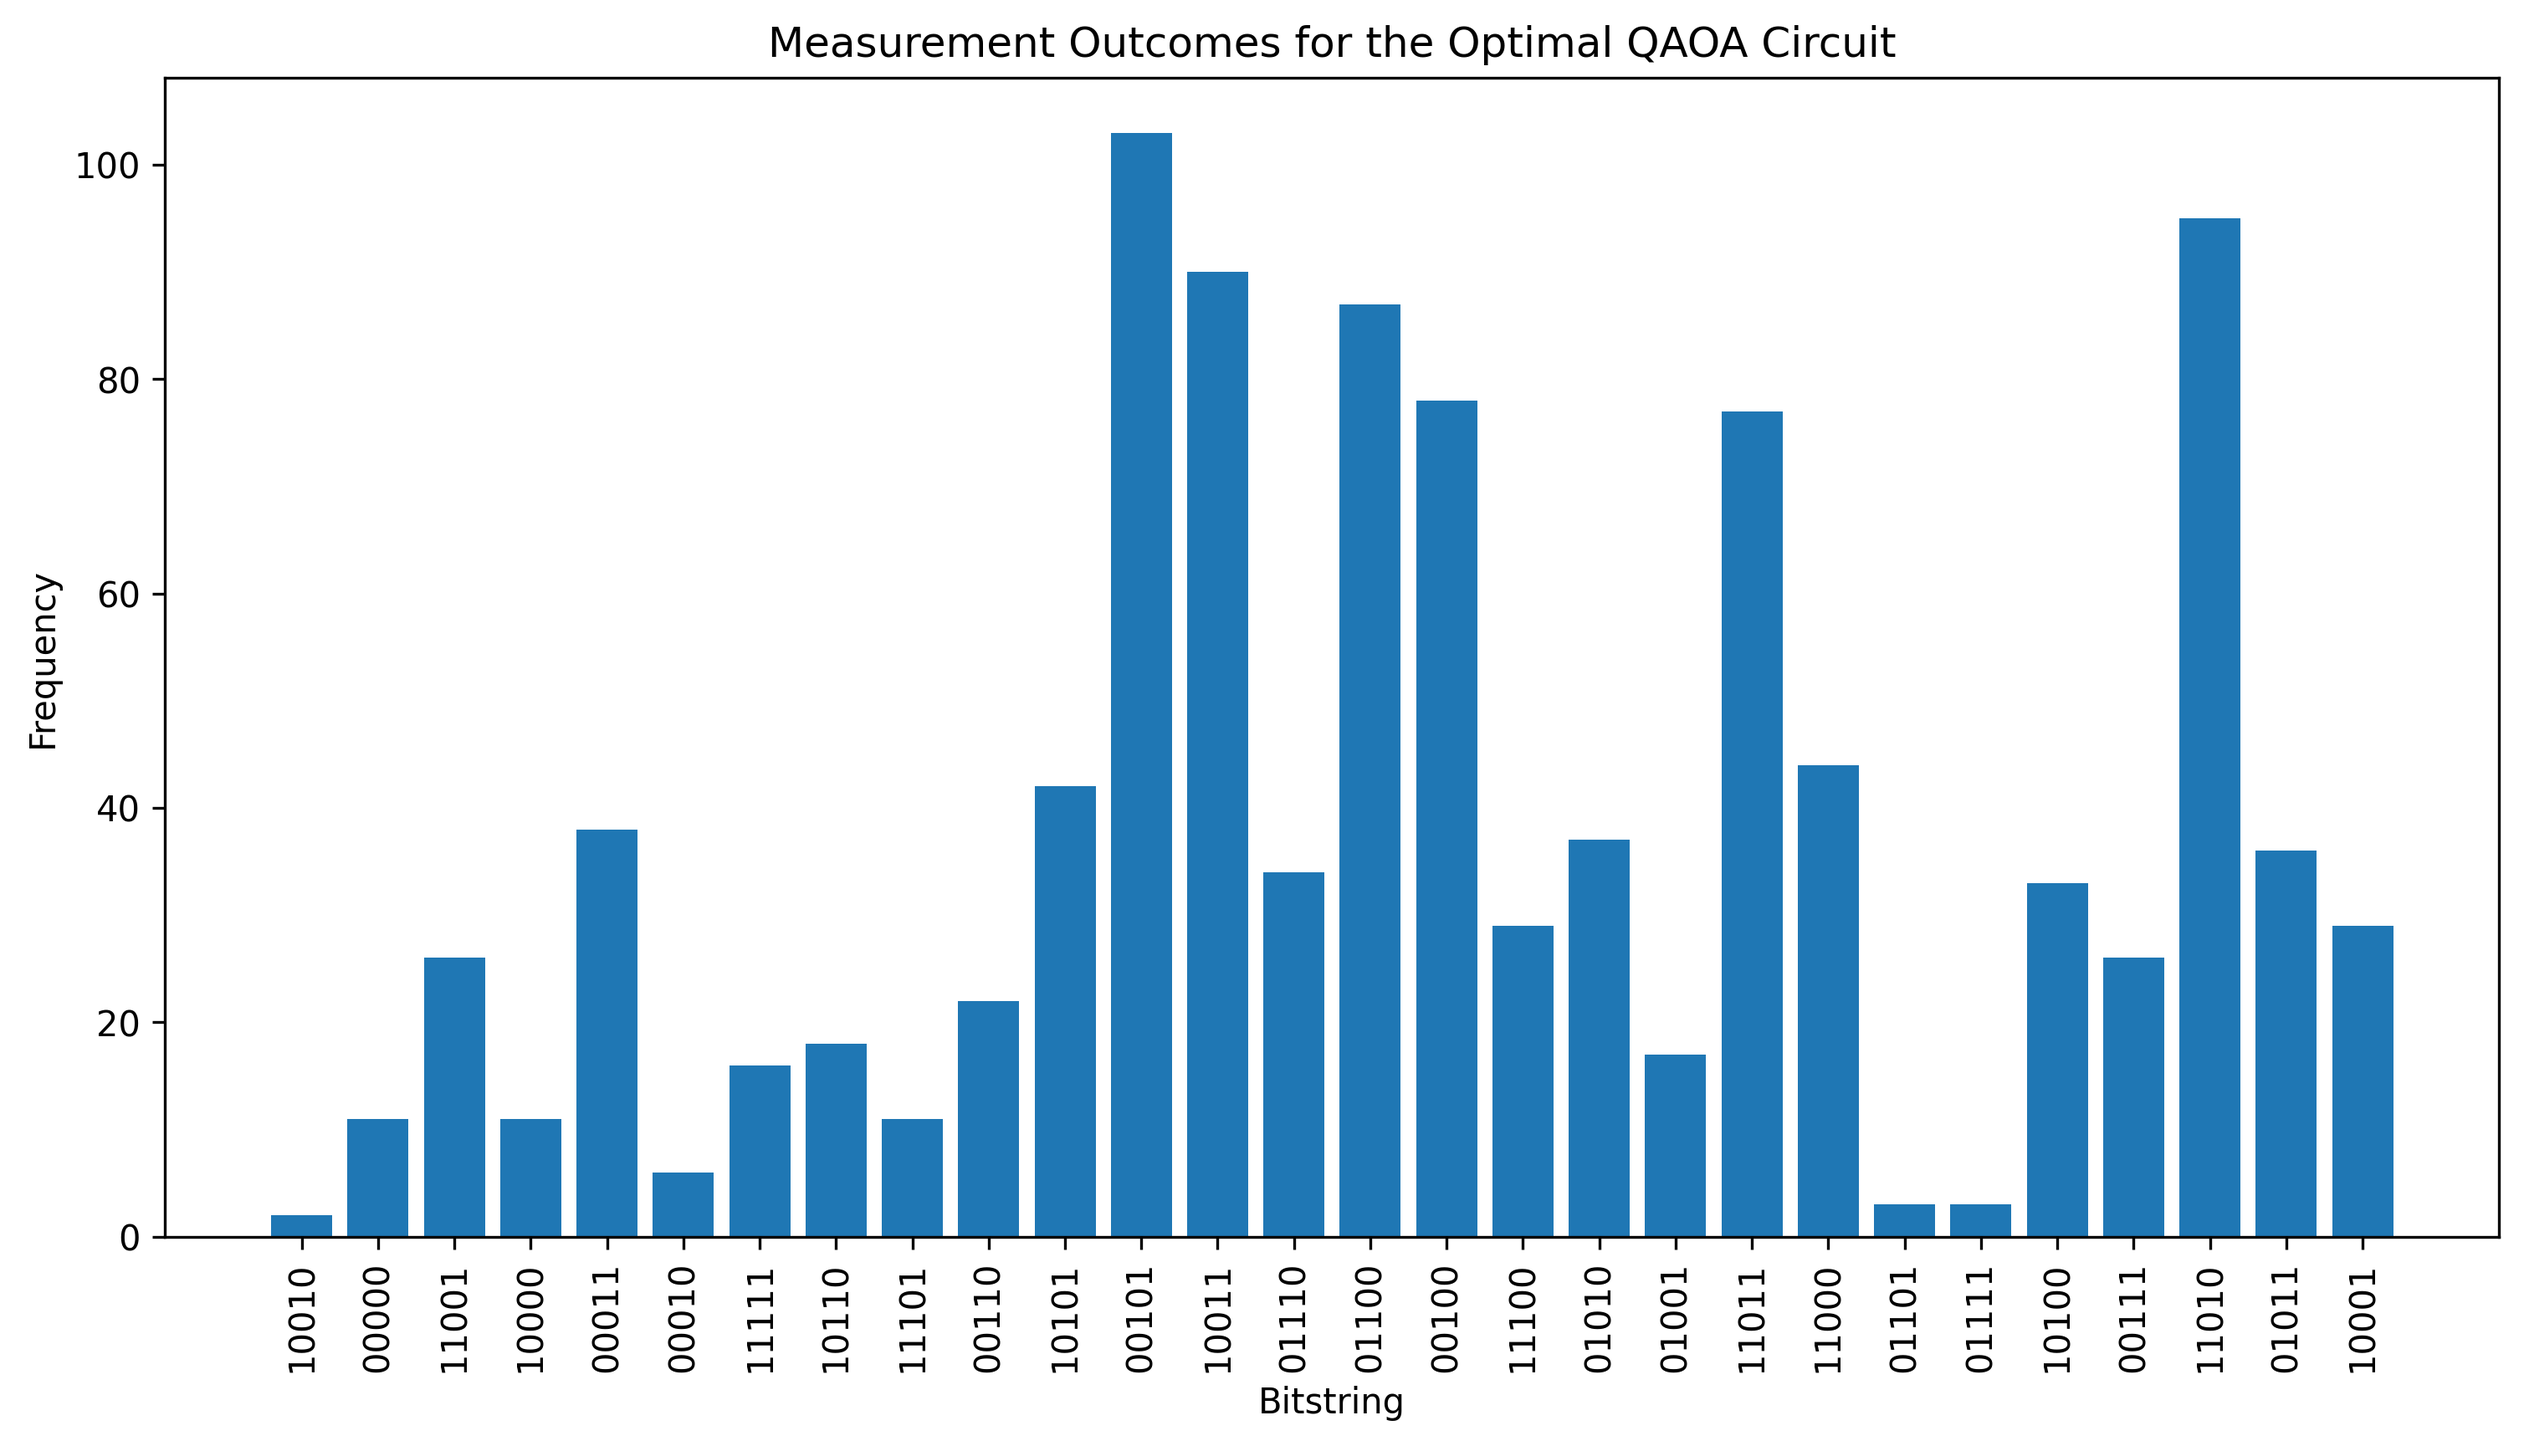
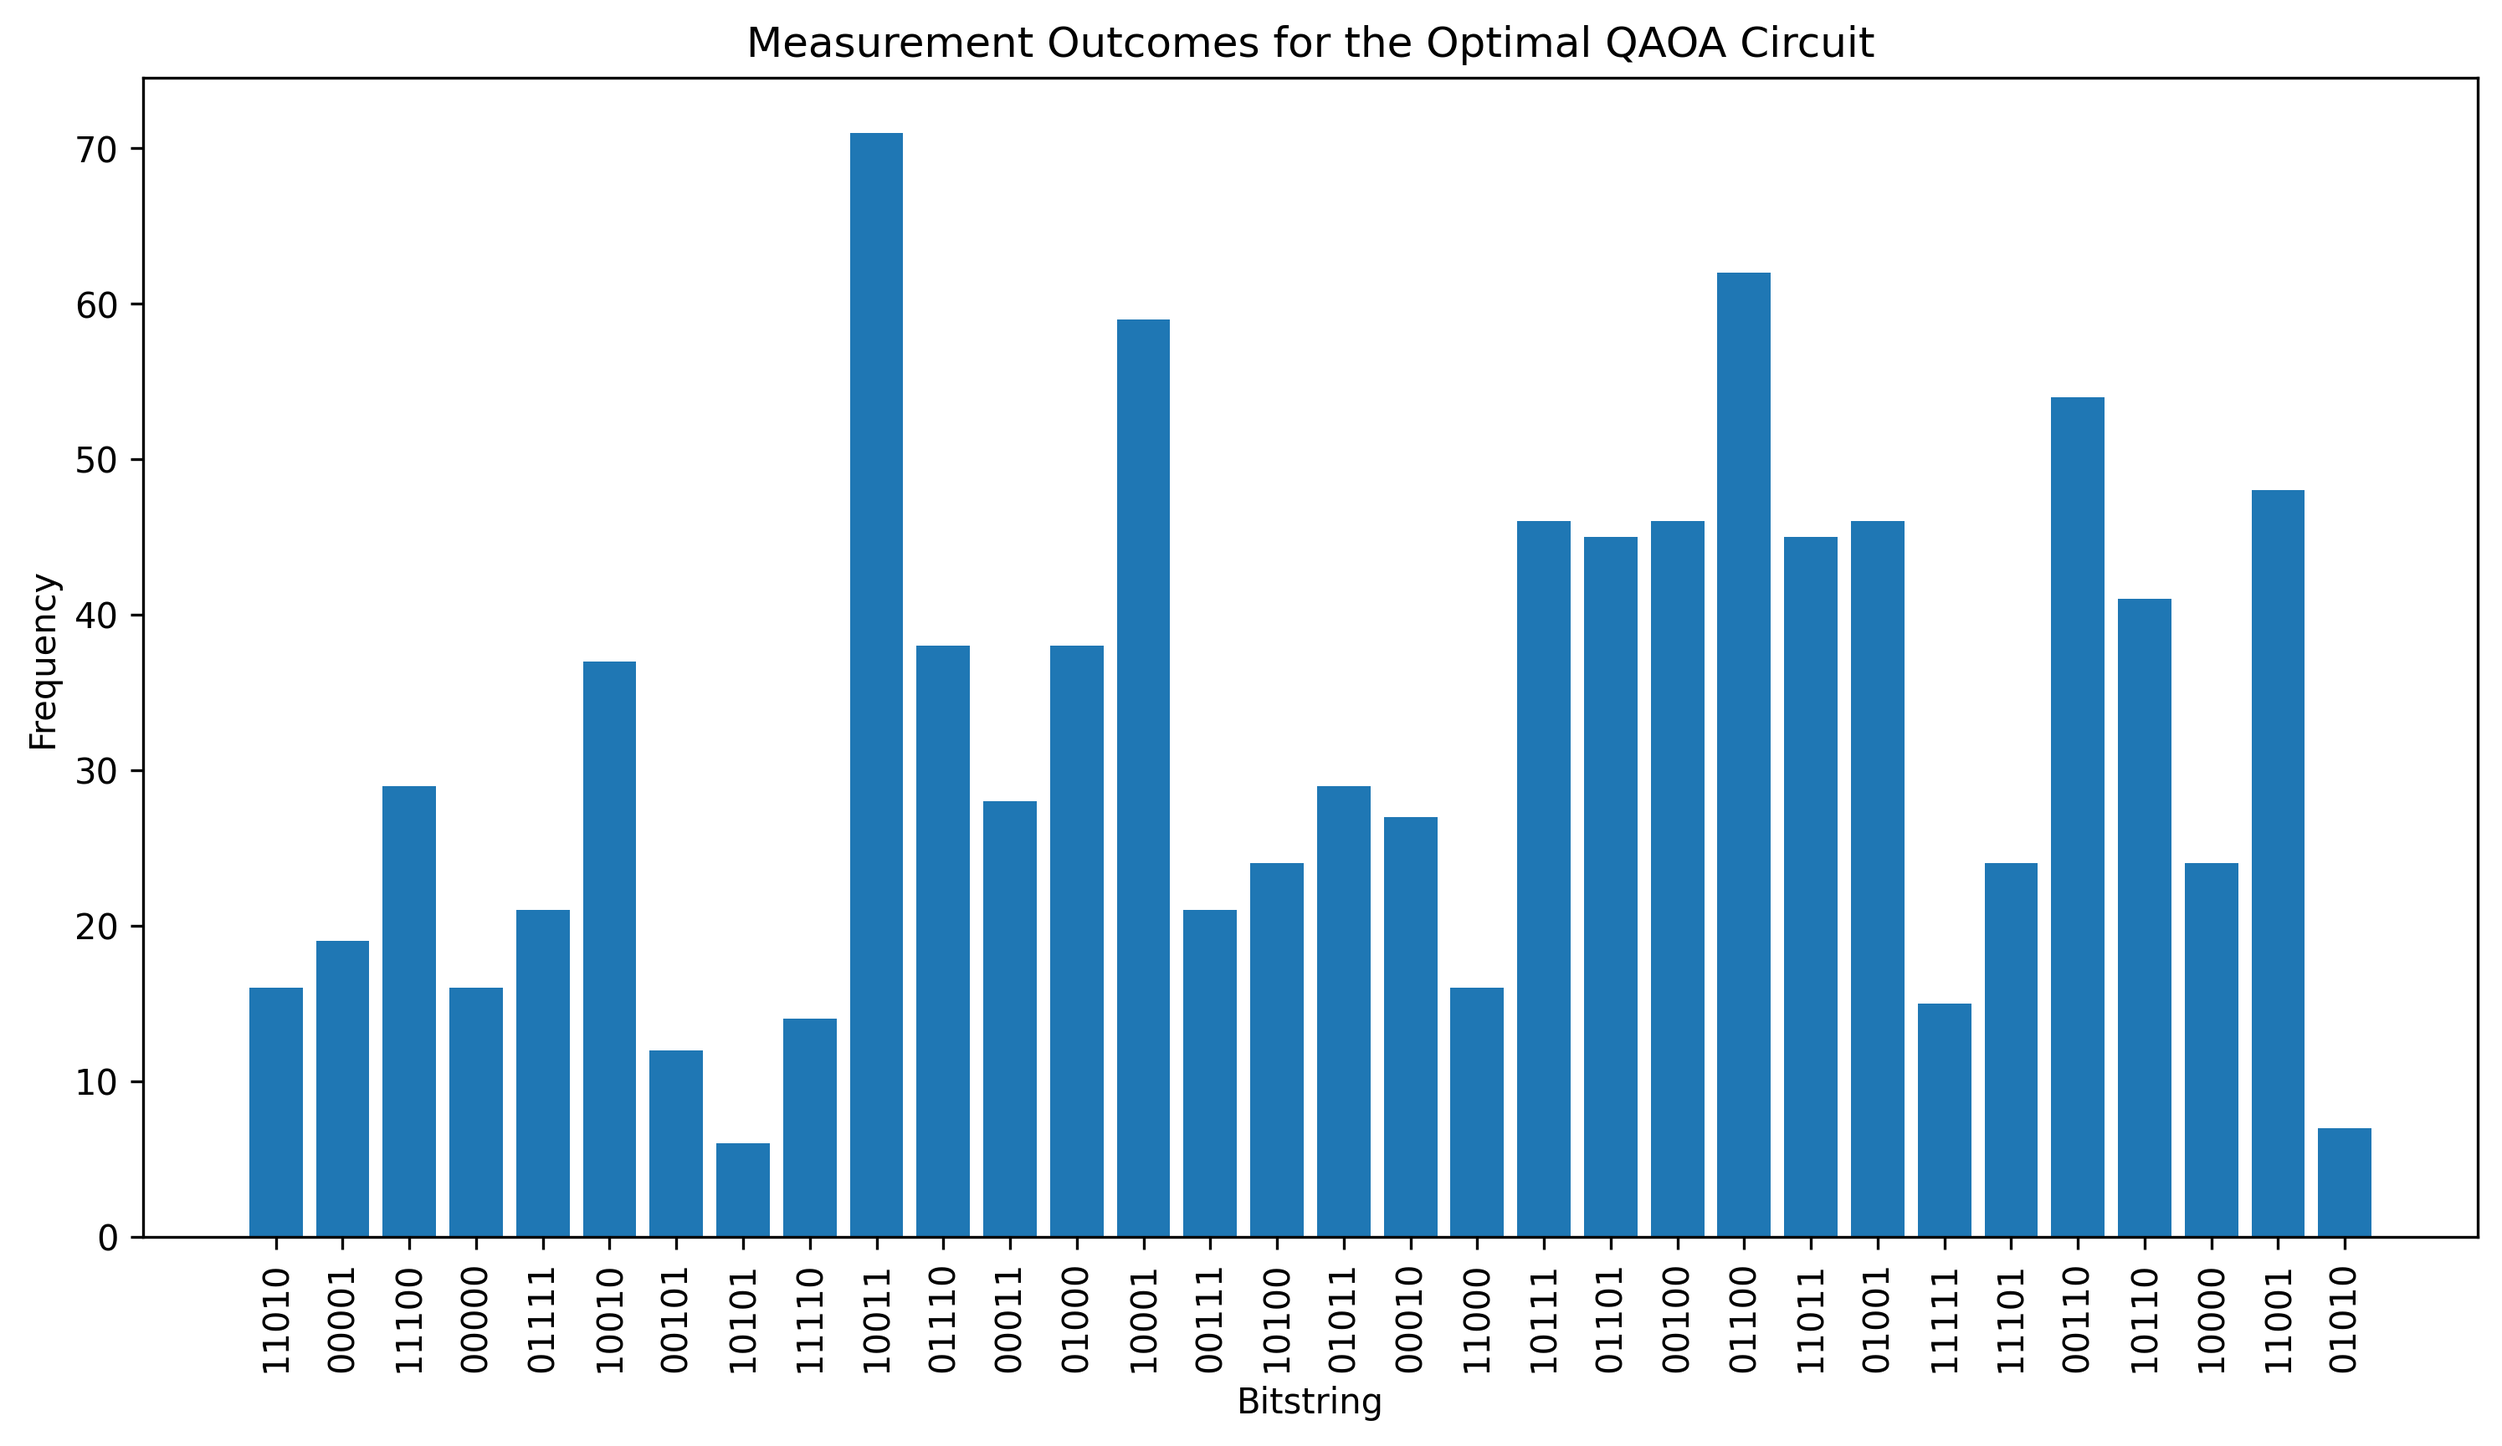
update noise model

diff --git a/src/energy_histogram.py b/src/energy_histogram.py
@@ -1,0 +1,52 @@
+import os
+
+import matplotlib.pyplot as plt
+import numpy as np
+from qiskit_aer import AerSimulator
+
+from src.qaoa_circuit import qaoa_circuit
+
+
+def calculate_cut_value(bitstring, adj_matrix):
+    """Calculate the Max-Cut value for a given bitstring."""
+    cut_value = 0
+    for i in range(len(adj_matrix)):
+        for j in range(i + 1, len(adj_matrix)):
+            if adj_matrix[i][j] == 1 and bitstring[i] != bitstring[j]:
+                cut_value -= 1
+    return cut_value
+
+
+def generate_energy_histogram(optimal_beta, optimal_gamma, n_qubits, cost_hamiltonian, adj_matrix):
+    simulator = AerSimulator()
+    optimal_circuit = qaoa_circuit(optimal_beta, optimal_gamma, n_qubits, cost_hamiltonian)
+    optimal_circuit.measure_all()
+    result = simulator.run(optimal_circuit, shots=1024).result()
+    counts = result.get_counts()
+    qaoa_energies = []
+    for bitstring, freq in counts.items():
+        energy = calculate_cut_value(bitstring, adj_matrix)
+        qaoa_energies.extend([energy] * freq)
+
+    """ generate random sample ( -1,1 for each spin ) """
+    num_random_samples = 1024
+    random_energies = []
+    for _ in range(num_random_samples):
+        random_bitstring = np.random.choice([0, 1], size=n_qubits)
+        random_energies.append(calculate_cut_value(random_bitstring, adj_matrix))
+
+    plt.figure(figsize=(12, 6))
+    plt.hist(qaoa_energies, bins=20, alpha=0.7, label="QAOA Optimal Parameters", edgecolor='k', color='blue')
+    plt.hist(random_energies, bins=20, alpha=0.7, label="Random Sampling", edgecolor='k', color='red')
+
+    plt.xlabel("Energy (Cut Value)")
+    plt.ylabel("Frequency")
+    plt.title("Comparison of Energy Distribution: QAOA vs. Random Sampling")
+    plt.legend()
+    plt.grid(True)
+    folder = "output/graph"
+    filename = "energy_histogram.png"
+    os.makedirs(folder, exist_ok=True)
+    filepath = os.path.join(folder, filename)
+    plt.savefig(filepath, dpi=300, bbox_inches='tight')
+    plt.close()

diff --git a/src/main.py b/src/main.py
@@ -2,6 +2,7 @@ import numpy as np
 
 from src.calculate_best_cut import calculate_best_cut
 from src.cost_hamiltonian import create_cost_hamiltonian
+from src.energy_histogram import generate_energy_histogram
 from src.estimator_run import estimator_run
 from src.generate_chart import generate_heatmap
 from src.sampler_run import sampler_run
@@ -31,8 +32,9 @@ gamma_values = np.linspace(0, np.pi, 8)
 cost_hamiltonian = create_cost_hamiltonian(adj_matrix)
 
 ''"run by sampler'"
-#expectation_values = sampler_run(beta_values, gamma_values , n_qubits, cost_hamiltonian, adj_matrix)
+expectation_values = sampler_run(beta_values, gamma_values , n_qubits, cost_hamiltonian, adj_matrix)
 ''"run by estimator'"
-expectation_values = estimator_run(beta_values, gamma_values , n_qubits, cost_hamiltonian)
+#expectation_values = estimator_run(beta_values, gamma_values , n_qubits, cost_hamiltonian)
 generate_heatmap(expectation_values)
-calculate_best_cut(expectation_values, beta_values, gamma_values, cost_hamiltonian, adj_matrix)
+optimal_beta, optimal_gamma = calculate_best_cut(expectation_values, beta_values, gamma_values, cost_hamiltonian, adj_matrix)
+generate_energy_histogram(optimal_beta, optimal_gamma, n_qubits, cost_hamiltonian, adj_matrix)

diff --git a/src/sampler_run.py b/src/sampler_run.py
@@ -2,7 +2,7 @@ from qiskit_aer import AerSimulator
 from src.qaoa_circuit import qaoa_circuit
 from qiskit_ibm_runtime import SamplerV2 as Sampler
 import numpy as np
-
+from qiskit_aer.noise import NoiseModel, depolarizing_error
 def calculate_state_cost(bitstring, adj_matrix):
     """Calculate the cost for a specific bitstring state."""
     n = len(adj_matrix)
@@ -30,7 +30,14 @@ def calculate_expectation_value(counts, adj_matrix):
     return total_cost / total_shots
 
 def sampler_run(beta_values, gamma_values , n_qubits, cost_hamiltonian, adj_matrix):
-    simulator = AerSimulator()
+    noise_model = NoiseModel()
+
+    single_qubit_error = depolarizing_error(0.8, 1)
+    two_qubit_error = depolarizing_error(0.8, 2)
+
+    noise_model.add_all_qubit_quantum_error(single_qubit_error, ["h", "rx", "rz"])
+    noise_model.add_all_qubit_quantum_error(two_qubit_error, ["cx", "rzz"])
+    simulator = AerSimulator(noise_model=noise_model)
     sampler = Sampler(mode=simulator)
     expectation_values = np.zeros((len(beta_values), len(gamma_values)))
     for i, beta in enumerate(beta_values):

diff --git a/src/calculate_best_cut.py b/src/calculate_best_cut.py
@@ -38,10 +38,6 @@ def calculate_best_cut(expectation_values, beta_values, gamma_values, cost_hamil
         f.write(f"Best cut value: {best_cut_value}\n")
         total_frequency = sum(counts.values())
         f.write(f"Total frequency: {total_frequency}\n")
-
-        # Optionally save the distribution chart
         generate_distribution(counts)
         f.write("Distribution chart generated successfully.\n")
-
-# Example usage (ensure you have required inputs for function call)
-# calculate_best_cut(expectation_values, beta_values, gamma_values, cost_hamiltonian, adj_matrix)
+        return optimal_beta, optimal_gamma
